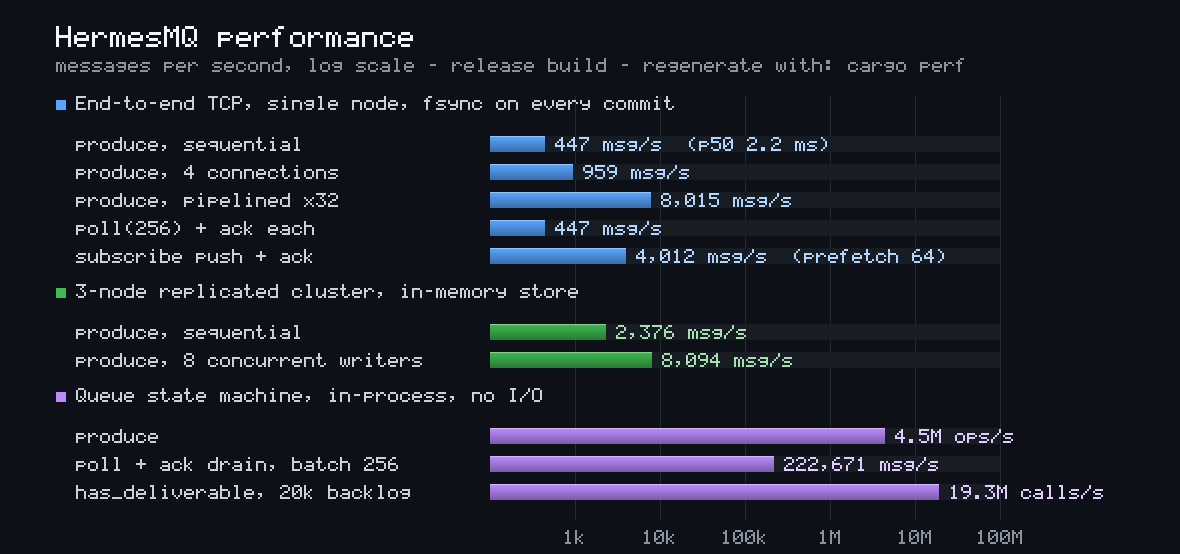
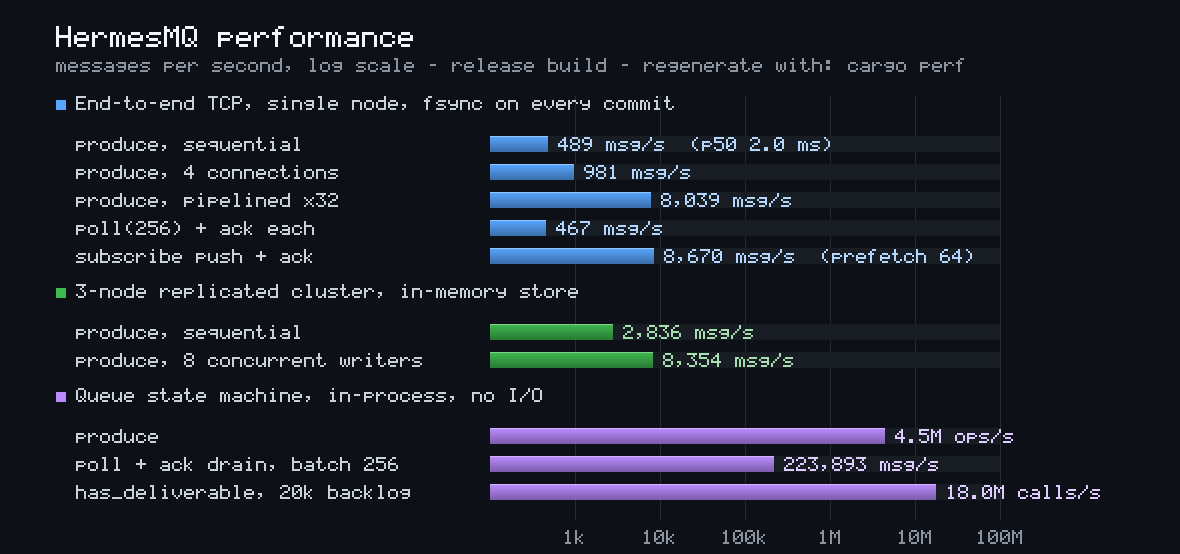
chore: update

diff --git a/README.md b/README.md
@@ -1,5 +1,5 @@
 # HermesMQ
-1
+
 The simple af, performant, durable Kafka-like **Raft-replicated message queue**.
 
 Status: **in progress**
@@ -25,7 +25,7 @@ Status: **in progress**
 
 ...testing on local machine, w/o network, etc. bottlenecks
 
-![HermesMQ performance](performance.png)
+![HermesMQ performance](https://github.com/hyperiondb/hermesmq/blob/main/performance.png?raw=true)
 
 The chart is regenerated from the measured numbers on every `cargo perf` run.
 